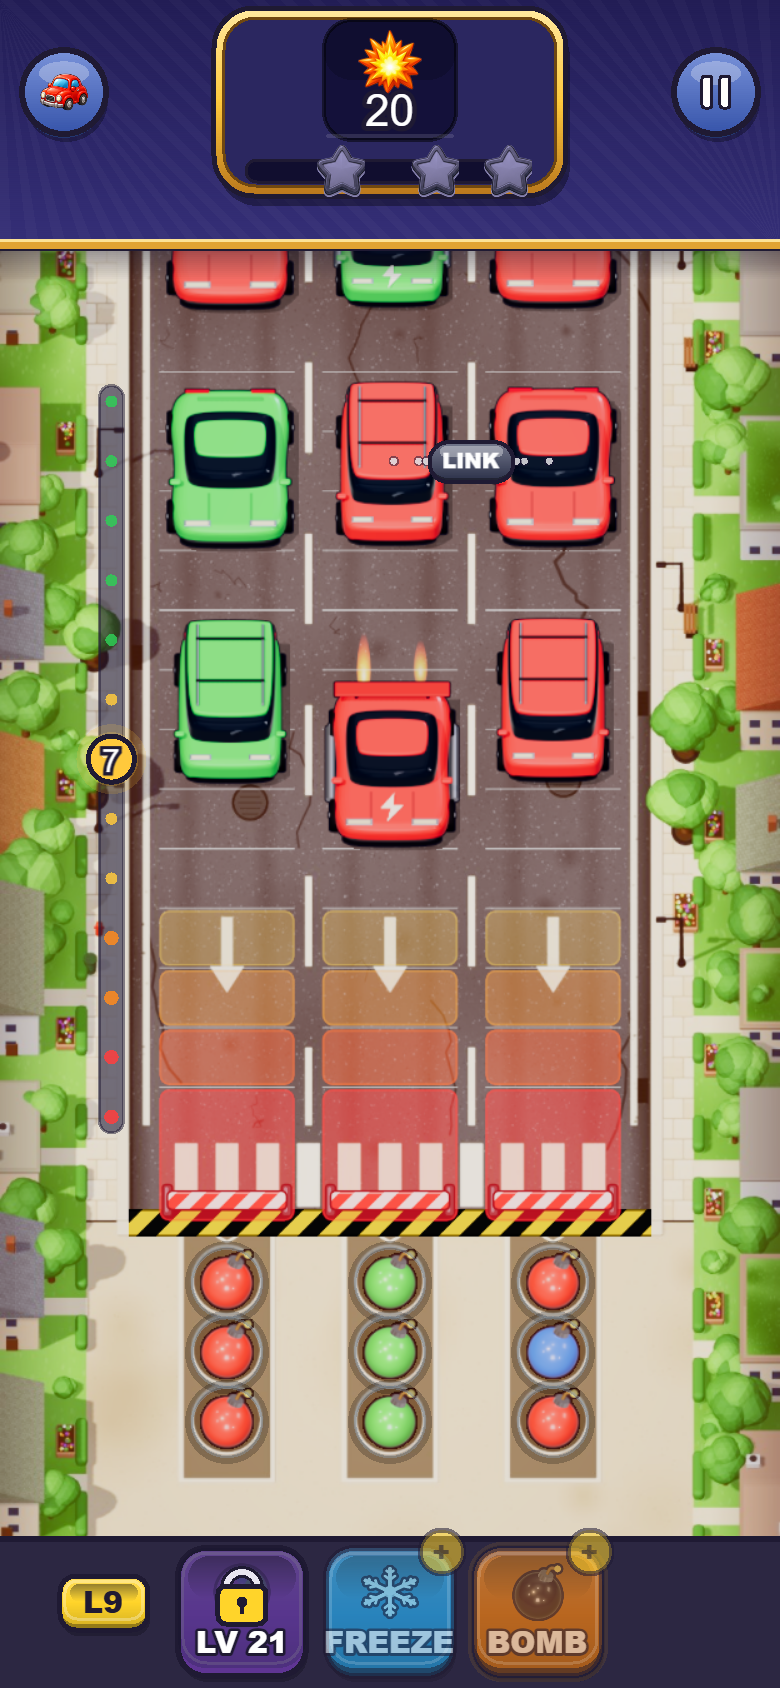
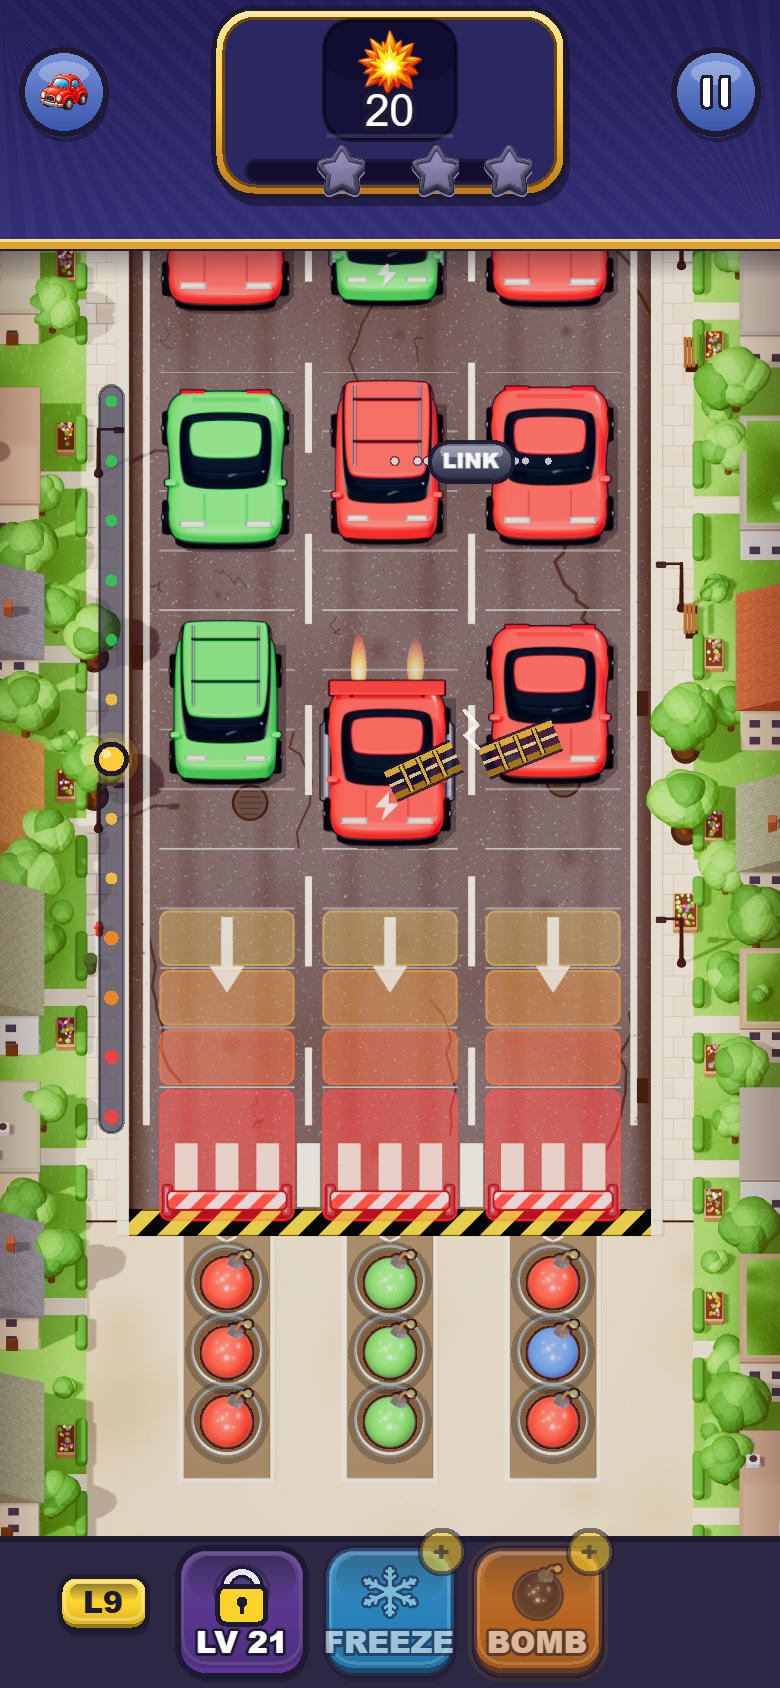
Bridge snap lasts longer and falls farther; capture script seeds the cards as seen

diff --git a/src/renderer/BridgeLayer.js b/src/renderer/BridgeLayer.js
@@ -17,7 +17,7 @@ import { eligiblePairs } from '../game/bridges.js';
 
 const GOLD = 0xFFC93C, GOLD_DEEP = 0xB8860B, INK = 0x1B1333, WHITE = 0xFFFFFF, GREEN = 0x2FCC55;
 const BEAM_H = 14;
-const SNAP_T = 0.5;
+const SNAP_T = 0.8;
 const INSET  = 0.2;   // the beam starts inside each car body (fraction of the lane gap), not at its centre
 const MADE_T = 0.45;
 const BLAST_T = 0.28;
@@ -138,7 +138,7 @@ export class BridgeLayer {
       const s = this._snaps[i]; s.t += dt;
       const k = s.t / SNAP_T;
       if (k >= 1) { this._snaps.splice(i, 1); continue; }
-      const mx = (s.x1 + s.x2) / 2, my = (s.y1 + s.y2) / 2, drop = 40 * k * k, al = 1 - k;
+      const mx = (s.x1 + s.x2) / 2, my = (s.y1 + s.y2) / 2, drop = 70 * k * k, al = 1 - k * k;
       this._beam(fx, s.x1, s.y1 + drop, mx - 6, my + drop + 8 * k, al, -0.25 * k);
       this._beam(fx, mx + 6, my + drop + 8 * k, s.x2, s.y2 + drop, al, 0.25 * k);
       fx.moveTo(mx - 4, my - 10).lineTo(mx + 3, my - 2).lineTo(mx - 3, my + 3).lineTo(mx + 4, my + 10).stroke({ color: WHITE, width: 2, alpha: al });

diff --git a/docs/superpowers/plans/2026-10-31-bridges.md b/docs/superpowers/plans/2026-10-31-bridges.md
@@ -13,25 +13,25 @@ a chameleon pair that flips together (stays bridged) vs apart (snaps); daily lev
 cards off).
 
 - [x] Task 0 — Bench: every slot takes a bomb (`fb2413c`).
-- [ ] Task 1 — `src/game/bridges.js` pure rules + `tests/bridges.test.js`.
-- [ ] Task 2 — GameState (`bridges`, `bridgesEnabled`, counters), GameLoop (`addBridge`, prune after
+- [x] Task 1 — `src/game/bridges.js` pure rules + `tests/bridges.test.js`.
+- [x] Task 2 — GameState (`bridges`, `bridgesEnabled`, counters), GameLoop (`addBridge`, prune after
       advance/hit/booster/rescue, `bridgeHits` in `_resolveShot`, `_onBridgeBlast`, `_onBridgeSnap`),
       spread removed; `tests/bridges-gameloop.test.js`, `tests/no-spread.test.js`; old spread tests
       deleted, score-gameloop updated.
-- [ ] Task 3 — CarDirector pair bias + speeder boost; GameLoop passes the neighbour colour;
+- [x] Task 3 — CarDirector pair bias + speeder boost; GameLoop passes the neighbour colour;
       `tests/pair-bias.test.js`, `tests/speeder-boost.test.js`.
-- [ ] Task 4 — Simulation: bridges + unlimited bench stores; `tests/simulation*.test.js` parity.
-- [ ] Task 5 — DragDrop bridge drag (hit test, state, callbacks) + `tests/dragdrop-bridge.test.js`;
+- [x] Task 4 — Simulation: bridges + unlimited bench stores; `tests/simulation*.test.js` parity.
+- [x] Task 5 — DragDrop bridge drag (hit test, state, callbacks) + `tests/dragdrop-bridge.test.js`;
       GameApp wiring (`onBridge`, `_nav` hooks).
-- [ ] Task 6 — `BridgeLayer` (hint, beam, snap), renderer blast reuse, floating tags, sounds.
-- [ ] Task 7 — `BridgeIntroCard` + guided first bridge on L6; introSchedule/guideContent/fixtures;
+- [x] Task 6 — `BridgeLayer` (hint, beam, snap), renderer blast reuse, floating tags, sounds.
+- [x] Task 7 — `BridgeIntroCard` + guided first bridge on L6; introSchedule/guideContent/fixtures;
       L6 renamed; speeder reactive card at L9.
-- [ ] Task 8 — `DemoCard` engine + `demoScenes.js` for every card; `stepsFor` routes to it;
+- [x] Task 8 — `DemoCard` engine + `demoScenes.js` for every card; `stepsFor` routes to it;
       `tests/demo-scenes.test.js`; HowToPlay pages reuse scenes where available.
-- [ ] Task 9 — Step ruler without the number; tour without MOVES LEFT; `tests/step-ruler.test.js`.
-- [ ] Task 10 — Retune: tune-levels 1-200 300 --write, tune-stars, balance report (+ no-bridges
+- [x] Task 9 — Step ruler without the number; tour without MOVES LEFT; `tests/step-ruler.test.js`.
+- [x] Task 10 — Retune: tune-levels 1-200 300 --write, tune-stars, balance report (+ no-bridges
       column L6-30), bands note.
-- [ ] Task 11 — Captures: `_bridge-shots.mjs`, `_demo-cards-shots.mjs` → docs/review (+ labels);
+- [x] Task 11 — Captures: `_bridge-shots.mjs`, `_demo-cards-shots.mjs` → docs/review (+ labels);
       HUD audit at L6/L13/L21; fixes.
 - [ ] Task 12 — Docs: CLAUDE.md §0, VISION.md §13, GAME_DESIGN note, play/whatsnew notes; PR; CI;
       merge; Android internal,alpha; iOS TestFlight; owner + peer messages.
